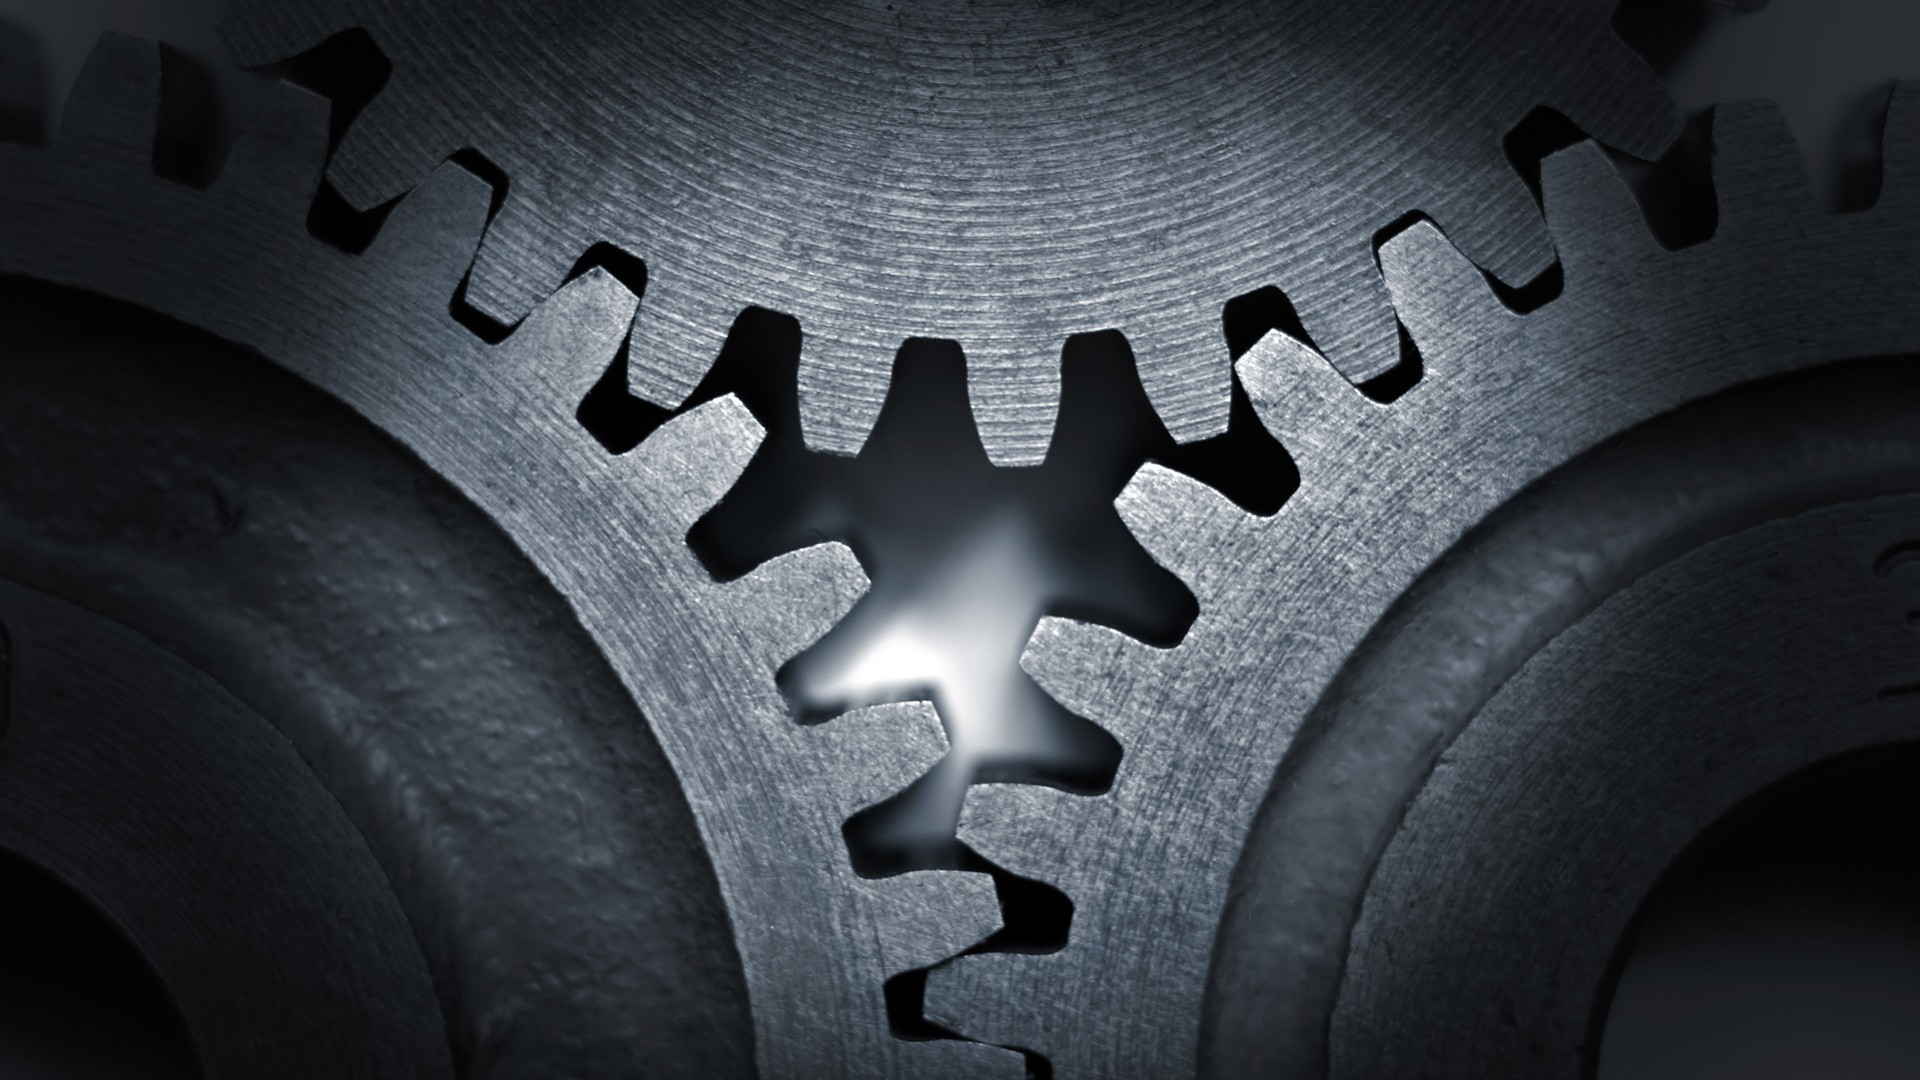
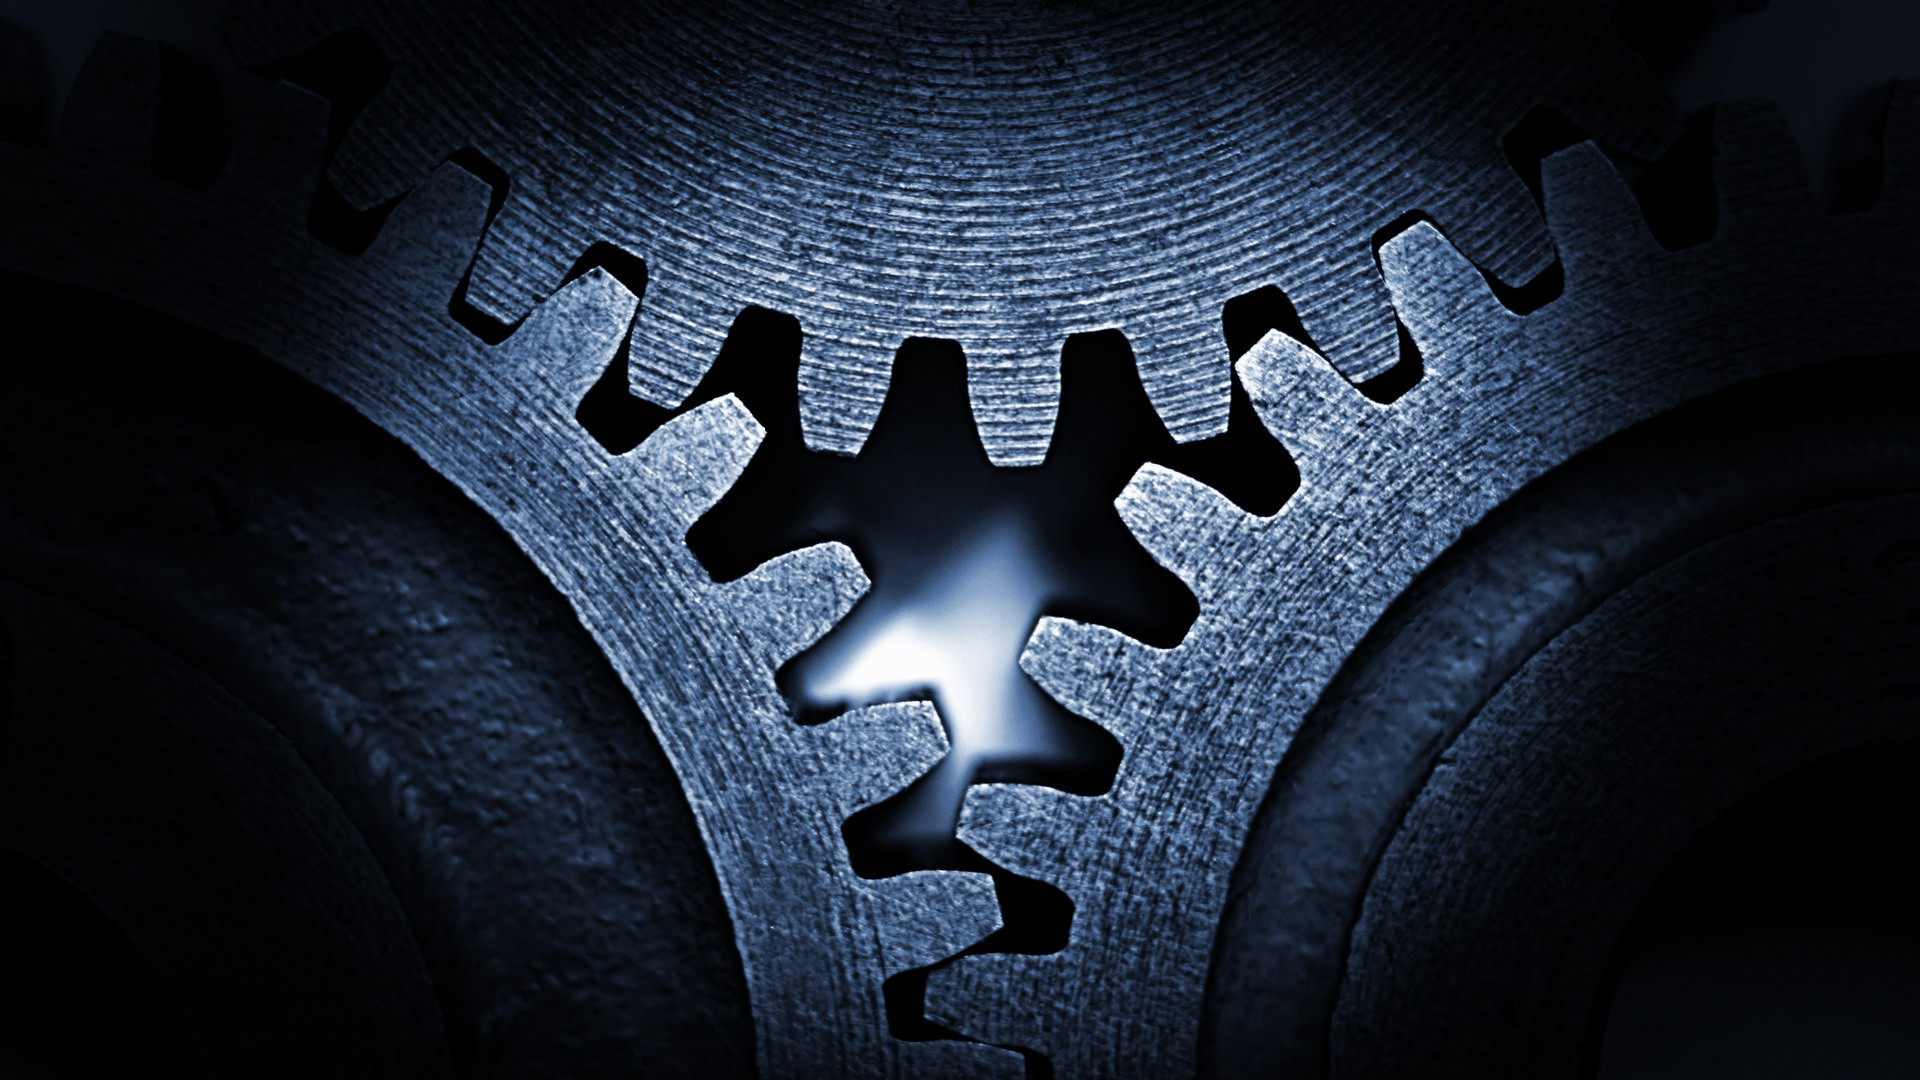
update bg color

diff --git a/assets/main.scss b/assets/main.scss
@@ -25,11 +25,12 @@ html, body {
   font-family: 'Roboto', 'Helvetica', sans-serif;
   margin: 0;
   padding: 0;
-  background: #000;
+  background: #001020;
 }
 .mdl-layout__header {
-  background: #000;
+  background: none;
   padding: 60px;
+  border-bottom: 10px solid #000;
 }
 .mdl-layout__header-row {
   height: auto;
@@ -88,7 +89,6 @@ html, body {
 }
 .mdl-card {
   padding: 50px;
-  border-bottom: 10px solid #000;
   border-radius: 0;
   .mdl-card__title-text {
     font-size: 2.5em;
@@ -113,24 +113,27 @@ html, body {
     }
   }
 }
-.mdl-card-1 {
-  height: 500px;
-  color: #fff;
-  background: url("{{ '/assets/card1d.jpg' | prepend:site.baseurl }}") center / cover;
-}
+.mdl-card-1,
 .mdl-card-2 {
   height: 500px;
   color: #fff;
+  border-bottom: 10px solid #000;
+}
+.mdl-card-1 {
+  background: url("{{ '/assets/card1d.jpg' | prepend:site.baseurl }}") center / cover;
+}
+.mdl-card-2 {
   background: url("{{ '/assets/card2e.jpg' | prepend:site.baseurl }}") center / cover;
 }
 .mdl-card-3 {
-  height: 500px;
-  background: #000;
+  background: none;
 }
 .mdl-card-3 h2 {
   color: #FFF;
   line-height: 1.5;
   margin: 0 10px;
+  max-width: 900px;
+  font-size: 2em;
 }
 .demo-card-wide > .mdl-card__menu {
   color: #fff;
